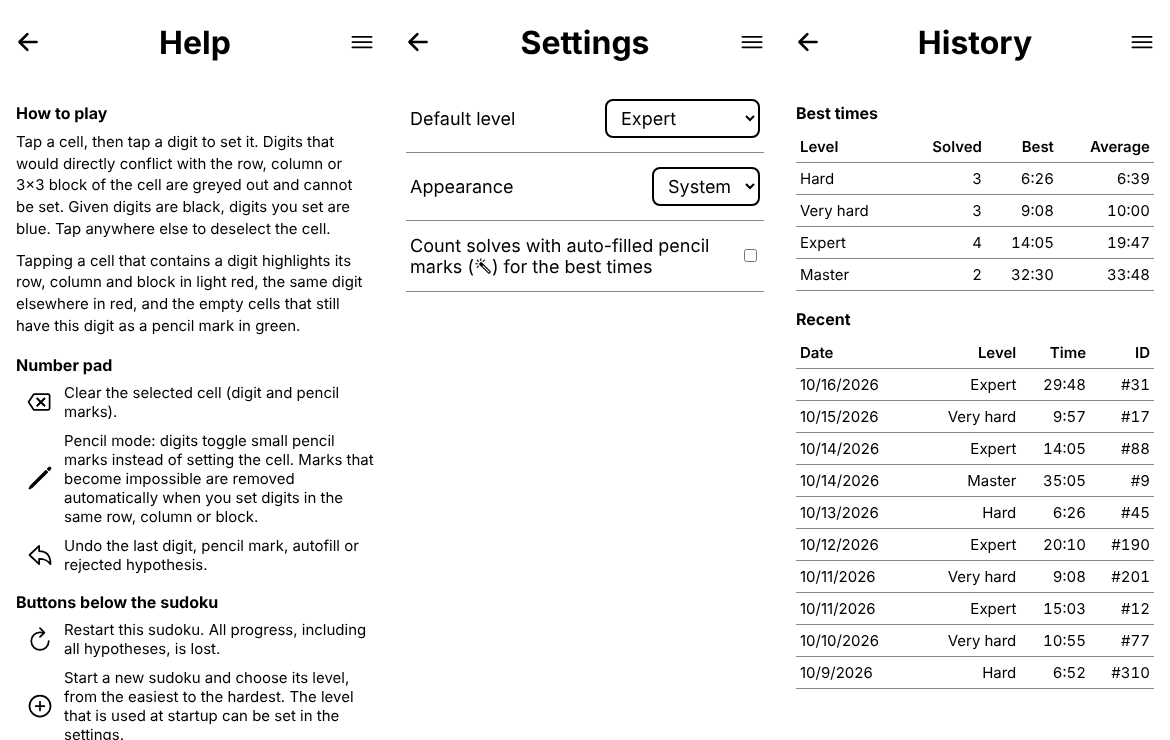
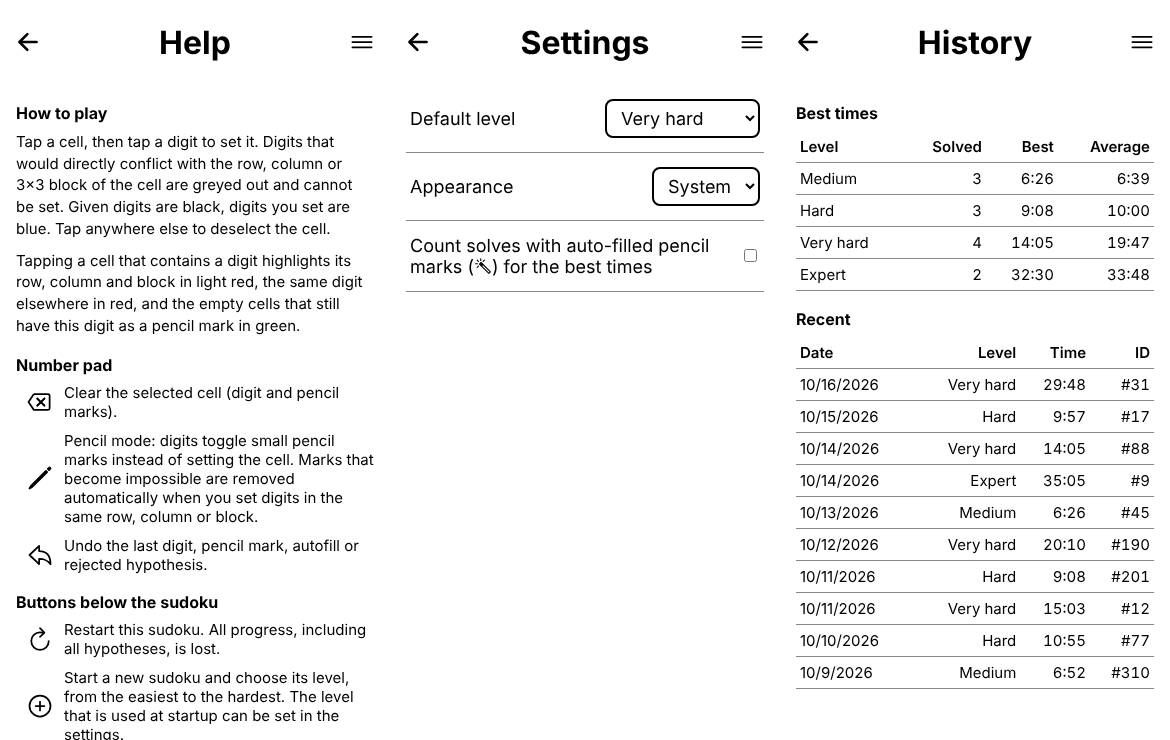
Rename Hard Sudoku to Serious Sudoku
Title, header, manifest, Android app name, APK file names, About text and
README; screenshots regenerated. The storage keys and the Android package id
are kept so that stored data and app updates keep working.

Claude-Session: https://claude.ai/code/session_019tPUdAuC1s5iG6GZtfpbmG

diff --git a/src/index.html b/src/index.html
@@ -1,7 +1,7 @@
 <!DOCTYPE html>
 <html>
   <head>
-    <title>Hard Sudoku</title>
+    <title>Serious Sudoku</title>
     <meta name="viewport" content="width=device-width, initial-scale=1" />
     <meta charset="utf-8" />
 
@@ -15,7 +15,7 @@
     <meta name="theme-color" content="#16181d" media="(prefers-color-scheme: dark)" />
     <meta name="mobile-web-app-capable" content="yes" />
     <meta name="apple-mobile-web-app-capable" content="yes" />
-    <meta name="apple-mobile-web-app-title" content="Hard Sudoku" />
+    <meta name="apple-mobile-web-app-title" content="Serious Sudoku" />
 
     <script type="module" src="../dist/main.js"></script>
     <script type="module" src="../dist/sudoku.js"></script>
@@ -55,7 +55,7 @@
         <button id="back-btn" class="icon-btn" title="Back" aria-label="Back" hidden>
           <svg class="icon" aria-hidden="true"><use href="#i-arrow-back-outline" /></svg>
         </button>
-        <h1 id="page-title">Hard Sudoku</h1>
+        <h1 id="page-title">Serious Sudoku</h1>
         <button id="menu-btn" class="icon-btn" title="Menu" aria-label="Menu" aria-haspopup="true" aria-expanded="false">
           <svg class="icon" aria-hidden="true"><use href="#i-menu-outline" /></svg>
         </button>
@@ -199,8 +199,8 @@
 
         <p>About</p>
         <p class="help-text">
-          Hard Sudoku is open source: the
-          <a href="https://github.com/chbauman/sudoku-ts" target="_blank" rel="noopener">sources are on GitHub</a>.
+          Serious Sudoku is open source: the
+          <a href="https://github.com/chbauman/serious-sudoku" target="_blank" rel="noopener">sources are on GitHub</a>.
           Made by <a href="https://chrisbaumann.ch/" target="_blank" rel="noopener">chrisbaumann.ch</a>,
           based on <a href="https://github.com/baruchel/sudoku-js" target="_blank" rel="noopener">sudoku-js</a>
           by Thomas Baruchel. Icons from

diff --git a/src/pages.ts b/src/pages.ts
@@ -19,7 +19,7 @@ import {
 } from "./settings.js";
 
 const TITLES: { [page: string]: string } = {
-  game: "Hard Sudoku",
+  game: "Serious Sudoku",
   help: "Help",
   settings: "Settings",
   history: "History",

diff --git a/README.md b/README.md
@@ -1,12 +1,12 @@
-# Hard Sudoku (sudoku-ts)
+# Serious Sudoku
 
-Hard Sudoku is a game of sudoku written in TypeScript as a mobile app.
+Serious Sudoku is a game of sudoku written in TypeScript as a mobile app.
 Let's you solve the hardest sudokus by hand with depth-first search.
 It allows you to guess a number and continue solving while being able to
 return to the point of guessing. This process can be done in a nested way.
-Try it at [chrisbaumann.ch/sudoku-ts](https://chrisbaumann.ch/sudoku-ts/), a screenshot (light and dark mode) is shown below.
+Try it at [chrisbaumann.ch/serious-sudoku](https://chrisbaumann.ch/serious-sudoku/), a screenshot (light and dark mode) is shown below.
 
-![Screenshot of Hard Sudoku in light and dark mode](docs/screenshot.png)
+![Screenshot of Serious Sudoku in light and dark mode](docs/screenshot.png)
 
 The menu in the header opens the help, the settings and the history of your
 solve times (light mode shown, the dark mode is available in the settings):
@@ -140,8 +140,8 @@ builds the TypeScript (`dist/` is not committed) and publishes the site to the
 `gh-pages` branch (site root = `src/` contents plus `dist/` and `assets/`).
 In the repository settings, set Pages to deploy from the `gh-pages` branch
 (root). The page is then available at the default GitHub Pages address,
-<https://chrisbaumann.ch/sudoku-ts/>. All paths are relative, so it works
-under the `/sudoku-ts/` sub-path.
+<https://chrisbaumann.ch/serious-sudoku/>. All paths are relative, so it works
+under the `/serious-sudoku/` sub-path.
 
 ## Installable / offline (PWA)
 
@@ -162,22 +162,22 @@ maintain; the app works offline because all files are bundled.
 
 The workflow `.github/workflows/android.yml` builds a debug APK on every push
 to `main` and for pull requests that touch the app (Actions run -> Artifacts ->
-`sudoku-debug-apk`). The APK is named after the app and the build, e.g.
-`hard-sudoku-1.0-build57-1a2b3c4-debug.apk`. To install it, copy it to the phone and open
+`serious-sudoku-debug-apk`). The APK is named after the app and the build, e.g.
+`serious-sudoku-1.0-build57-1a2b3c4-debug.apk`. To install it, copy it to the phone and open
 it (allow installing from unknown sources). To build locally you need Node 22,
 JDK 21 and the Android SDK:
 
 ```
 $ npm run assemble
 $ npx cap sync android
-$ cd android && ./gradlew assembleDebug   # android/app/build/outputs/apk/debug/hard-sudoku-1.0-local-debug.apk
+$ cd android && ./gradlew assembleDebug   # android/app/build/outputs/apk/debug/serious-sudoku-1.0-local-debug.apk
 ```
 
 All debug APKs (CI and local) are signed with the same debug key,
 `android/app/debug.keystore` (committed on purpose, it is not a secret), so a
 debug APK can be installed over an older one, which keeps the app data (saved
 game, history, settings): open the new APK on the phone or run
-`adb install -r hard-sudoku-*-debug.apk`. Apps that were installed from APKs built before
+`adb install -r serious-sudoku-*-debug.apk`. Apps that were installed from APKs built before
 the key was fixed are signed with other keys and have to be uninstalled once
 (which deletes their data); the same holds for switching to a release build.
 
@@ -185,7 +185,7 @@ In CI the version code of the APK is the run number of the workflow and the
 version name shows it with the commit (`1.0 (build 57, 1a2b3c4)`, see the app
 info of the phone), so each CI build is newer than the one before. Local
 builds have the version code 1; installing one over a CI build is a downgrade
-and needs `adb install -r -d hard-sudoku-*-debug.apk`.
+and needs `adb install -r -d serious-sudoku-*-debug.apk`.
 
 A Play Store release additionally needs a release signing key
 (`./gradlew bundleRelease`); this is not set up yet.
